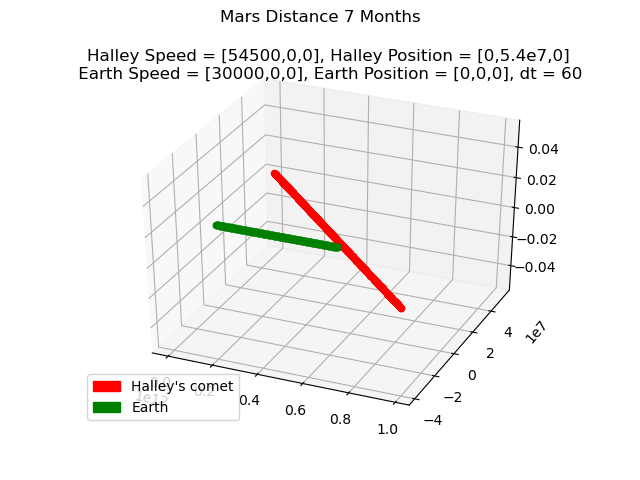
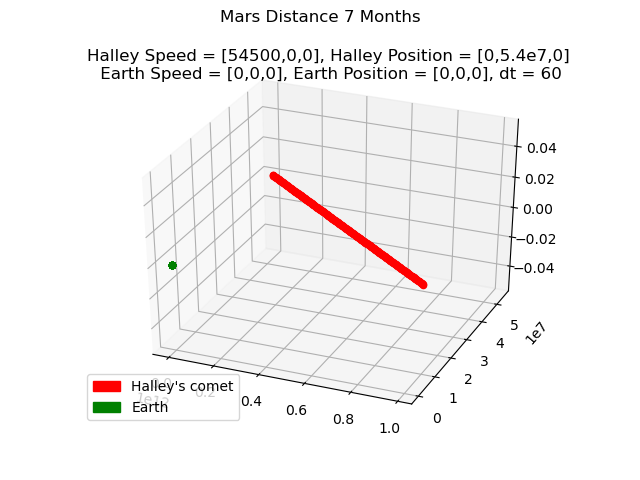
new charts

diff --git a/moon_distance.py b/moon_distance.py
@@ -125,7 +125,7 @@ class Potential:
         return self.system
 
 lenTime=3600.0*24*30  #sec EN 30 días
-dt=3.49    #sec    Paso de 60 segundos
+dt=60    #sec    Paso de 60 segundos
 
 
 #sun = Particle([0,0,0],[0,0,0], 2e30)
@@ -140,7 +140,7 @@ dt=3.49    #sec    Paso de 60 segundos
 #pluto = Particle ([0,3.7e12,0], [4748,0,0],1.3e22)
 
 #def __init__(self, p, v, m, dt=1): 
-earth = Particle([0, 0, 0], [30000, 0, 0], 6e24)
+earth = Particle([0, 0, 0], [0, 0, 0], 6e24)
 #4936729700 m distancia de Halley a la Tierra
 ##https://solarsystem.nasa.gov/asteroids-comets-and-meteors/comets/1p-halley/in-depth/#:~:text=The%20comet%27s%20closest%20approach%20to,miles%20or%204.94%20million%20kilometers
 halley = Particle([0,3.8e5,0], [54500,0,0], 2.2e14)
@@ -260,7 +260,7 @@ for particle in particles:
 #ax[2].grid()
 
 
-plt.title('Halley Speed = [54500,0,0], Halley Position = [0,3.8e5,0]\n Earth Speed= [30000,0,0], Earth Position = [0,0,0], dt = 3.49 ')
+plt.title('Halley Speed = [54500,0,0], Halley Position = [0,3.8e5,0]\n Earth Speed= [0,0,0], Earth Position = [0,0,0], dt = 60 ')
 fig.suptitle('Moon Distance 1 Month')
 red_patch = mpatches.Patch(color='red', label='Halley\'s comet')
 green_patch = mpatches.Patch(color='green', label='Earth')

diff --git a/mars_distance.py b/mars_distance.py
@@ -140,7 +140,7 @@ dt=60      #sec    Paso de 60 segundos
 #pluto = Particle ([0,3.7e12,0], [4748,0,0],1.3e22)
 
 #def __init__(self, p, v, m, dt=1): 
-earth = Particle([0, 0, 0], [30000, 0, 0], 6e24)#6
+earth = Particle([0, 0, 0], [0, 0, 0], 6e24)#6
 #4936729700 m distancia de Halley a la Tierra
 ##https://solarsystem.nasa.gov/asteroids-comets-and-meteors/comets/1p-halley/in-depth/#:~:text=The%20comet%27s%20closest%20approach%20to,miles%20or%204.94%20million%20kilometers
 halley = Particle([0,5.4e7,0],[54500,0,0], 2.2e14)#2.2e14)
@@ -258,7 +258,7 @@ for particle in particles:
 #ax[2].plot(x,a)
 #ax[2].set(xlabel='time [sec]', ylabel='acceleration [km/s^2]')
 #ax[2].grid()
-plt.title('Halley Speed = [54500,0,0], Halley Position = [0,5.4e7,0]\n Earth Speed = [30000,0,0], Earth Position = [0,0,0], dt = 60')
+plt.title('Halley Speed = [54500,0,0], Halley Position = [0,5.4e7,0]\n Earth Speed = [0,0,0], Earth Position = [0,0,0], dt = 60')
 fig.suptitle('Mars Distance 1 Month')
 red_patch = mpatches.Patch(color='red', label='Halley\'s comet')
 green_patch = mpatches.Patch(color='green', label='Earth')

diff --git a/normal_distance.py b/normal_distance.py
@@ -140,7 +140,7 @@ dt=60     #sec    Paso de 60 segundos
 #pluto = Particle ([0,3.7e12,0], [4748,0,0],1.3e22)
 
 #def __init__(self, p, v, m, dt=1): 
-earth = Particle([0, 0, 0], [30000, 0, 0], 6e24)
+earth = Particle([0, 0, 0], [0, 0, 0], 6e24)
 #4936729700 m distancia de Halley a la Tierra
 ##https://solarsystem.nasa.gov/asteroids-comets-and-meteors/comets/1p-halley/in-depth/#:~:text=The%20comet%27s%20closest%20approach%20to,miles%20or%204.94%20million%20kilometers
 halley = Particle([0,5e9,0], [54500,0,0], 2.2e14)
@@ -260,7 +260,7 @@ for particle in particles:
 #ax[2].grid()
 
 
-plt.title('Halley Speed = [54500,0,0], Halley Position = [0,5e9,0]\n Earth Speed = [30000,0,0], Earth Position = [0,0,0], dt = 60 ')
+plt.title('Halley Speed = [54500,0,0], Halley Position = [0,5e9,0]\n Earth Speed = [0,0,0], Earth Position = [0,0,0], dt = 60 ')
 fig.suptitle('Normal Distance 1 Month')
 red_patch = mpatches.Patch(color='red', label='Halley\'s comet')
 green_patch = mpatches.Patch(color='green', label='Earth')
